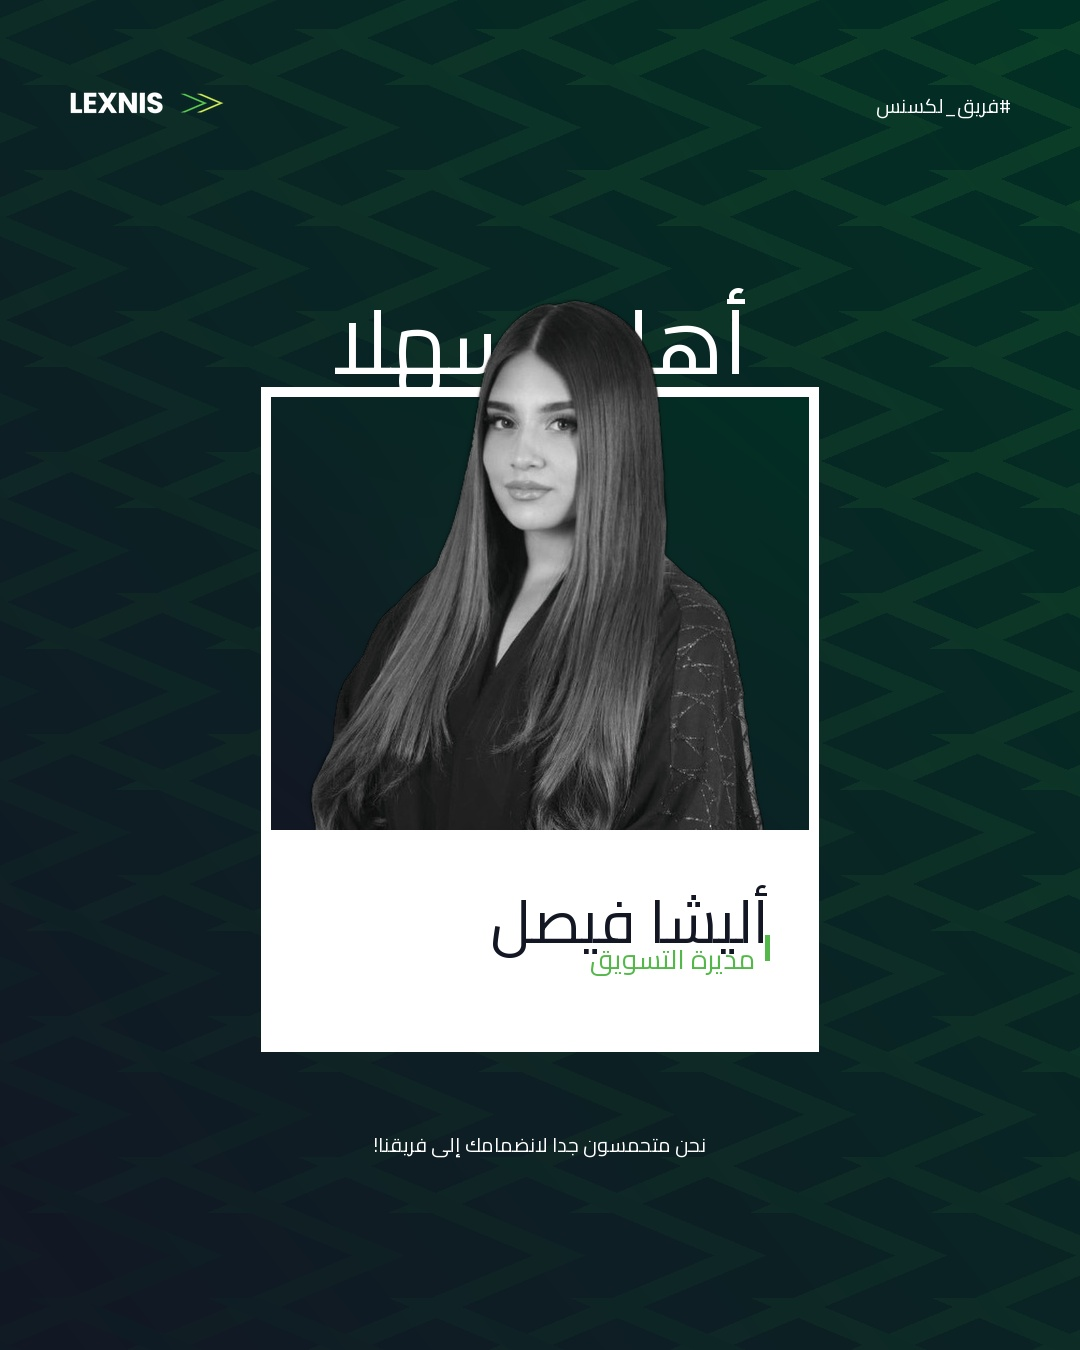
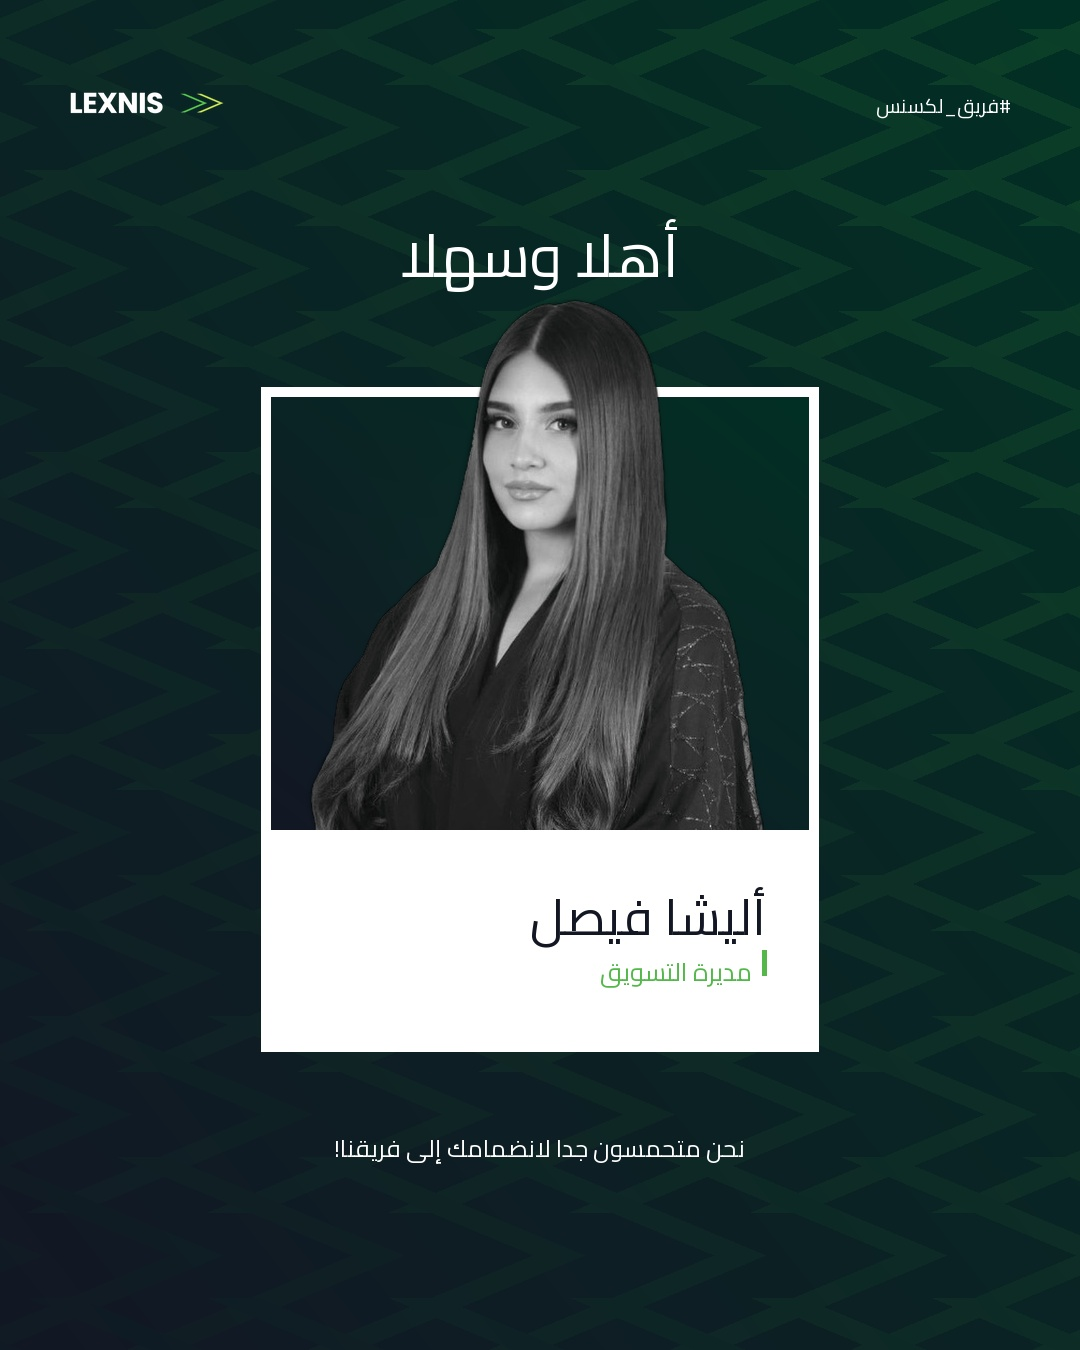
feat: upgrade template swap resolution to 1080x1350 and add Lexnis default brand DNA fallback

diff --git a/index.html b/index.html
@@ -3011,18 +3011,22 @@
           formData.append('template_url', activeTemplateAsset.url);
           formData.append('subject_url', activeSubjectAsset.url);
 
-          const pName = (personNameInput && personNameInput.value.trim()) || '';
-          const pTitle = (personTitleInput && personTitleInput.value.trim()) || '';
+          const pName = (personNameInput && personNameInput.value.trim()) || 'Alisha Faisal';
+          const pTitle = (personTitleInput && personTitleInput.value.trim()) || 'Marketing Manager';
           const bName = (brandInput && brandInput.value.trim()) || 'Lexnis Technologies';
-          const cUrl = (companyUrlInput && companyUrlInput.value.trim()) || currentCompanyUrl || '';
-          if (pName) formData.append('person_name', pName);
-          if (pTitle) formData.append('person_title', pTitle);
-          if (bName) formData.append('brand_name', bName);
-          if (cUrl) formData.append('company_url', cUrl);
+          const cUrl = (companyUrlInput && companyUrlInput.value.trim()) || currentCompanyUrl || 'https://lexnis.com';
+          formData.append('person_name', pName);
+          formData.append('person_title', pTitle);
+          formData.append('brand_name', bName);
+          formData.append('company_url', cUrl);
           if (currentBrandDna && currentBrandDna.brand_tag) {
             formData.append('brand_tag', currentBrandDna.brand_tag);
+          } else {
+            formData.append('brand_tag', '#LexnisTeam');
           }
           formData.append('recolor_gradient', 'true');
+          const lang = campaignLanguageSelect ? campaignLanguageSelect.value : 'both';
+          formData.append('language', lang);
 
           const resp = await fetch(`${backendApiBase}/api/template-swap`, {
             method: 'POST',
@@ -3035,6 +3039,13 @@
           }
 
           const data = await resp.json();
+          if (data.arabic_image_url) {
+            currentArabicImageUrl = data.arabic_image_url;
+          }
+          if (data.image_url) {
+            currentEnglishImageUrl = data.image_url;
+            currentImageUrl = data.image_url;
+          }
           if (quickSwapResultImg && data.image_url) {
             quickSwapResultImg.src = data.image_url;
             if (quickSwapDownloadLink) quickSwapDownloadLink.href = data.image_url;
@@ -3179,7 +3190,29 @@
     const dnaAestheticText = document.getElementById('dna-aesthetic-text');
 
     let currentCompanyUrl = 'https://lexnis.com';
-    let currentBrandDna = null;
+    const LEXNIS_DEFAULT_DNA = {
+      company_name: 'Lexnis Technologies',
+      brand_tag: '#LexnisTeam',
+      domain: 'lexnis.com',
+      brand_colors: {
+        primary: '#131724',
+        secondary: '#023024',
+        accent: '#53B849',
+        accent_lime: '#BCD755',
+        accent_yellow: '#FFBD23',
+        gradient_start: '#131724',
+        gradient_end: '#023024'
+      },
+      typography: {
+        primary_font: 'Poppins',
+        secondary_font: 'Poppins Medium',
+        arabic_font: 'Cairo Bold / Tajawal Medium',
+        heading_style: 'Poppins Bold 700 / Cairo Bold 700'
+      },
+      visual_aesthetic: 'Enterprise transformation minimalism with 135° Depth Gradient (#131724 -> #023024), Tech Green & Lime dual open chevrons, Core Chevron Field pattern, and Poppins/Cairo bilingual typography.',
+      locked_by_guidelines: true
+    };
+    let currentBrandDna = { ...LEXNIS_DEFAULT_DNA };
 
     function applyBrandDnaToUI(dna) {
       if (!dna) return;
@@ -3865,6 +3898,11 @@
     window.addEventListener('DOMContentLoaded', () => {
       lucide.createIcons();
       checkBackendEngine();
+
+      // Initialize Verified Lexnis Brand DNA
+      if (currentBrandDna) {
+        applyBrandDnaToUI(currentBrandDna);
+      }
 
       // Initialize Post Type Hub
       selectPostType('team_welcome');
@@ -5351,6 +5389,23 @@ Deployable directly into legacy PLC racks and air-gapped SCADA environments, Lex
               formData.append('subject_url', 'raw_subject.jpg');
             }
 
+            const pName = (personNameInput && personNameInput.value.trim()) || 'Alisha Faisal';
+            const pTitle = (personTitleInput && personTitleInput.value.trim()) || 'Marketing Manager';
+            const bName = (brandInput && brandInput.value.trim()) || 'Lexnis Technologies';
+            const cUrl = (companyUrlInput && companyUrlInput.value.trim()) || currentCompanyUrl || 'https://lexnis.com';
+            formData.append('person_name', pName);
+            formData.append('person_title', pTitle);
+            formData.append('brand_name', bName);
+            formData.append('company_url', cUrl);
+            if (currentBrandDna && currentBrandDna.brand_tag) {
+              formData.append('brand_tag', currentBrandDna.brand_tag);
+            } else {
+              formData.append('brand_tag', '#LexnisTeam');
+            }
+            formData.append('recolor_gradient', 'true');
+            const lang = campaignLanguageSelect ? campaignLanguageSelect.value : 'both';
+            formData.append('language', lang);
+
             const response = await fetch('/api/template-swap', {
               method: 'POST',
               body: formData,
@@ -5363,6 +5418,13 @@ Deployable directly into legacy PLC racks and air-gapped SCADA environments, Lex
 
             const data = await response.json();
             lastSwapImageUrl = data.image_url;
+            if (data.arabic_image_url) {
+              currentArabicImageUrl = data.arabic_image_url;
+            }
+            if (data.image_url) {
+              currentEnglishImageUrl = data.image_url;
+              currentImageUrl = data.image_url;
+            }
 
             if (swapResultContainer && swapResultImg) {
               swapResultImg.src = data.image_url;

diff --git a/visual_engine.py b/visual_engine.py
@@ -475,7 +475,7 @@ def sanitize_brand_tag(raw_tag: str, brand_name: str = "Lexnis") -> str:
     return tag
 
 
-def render_lexnis_logo(height: int = 40, is_dark_bg: bool = True) -> Image.Image:
+def render_lexnis_logo(height: int = 42, is_dark_bg: bool = True) -> Image.Image:
     """
     Renders official Lexnis Technologies vector wordmark and dual open chevrons
     conforming strictly to Section 01 of the Brand Identity Expansion (2026):
@@ -484,7 +484,7 @@ def render_lexnis_logo(height: int = 40, is_dark_bg: bool = True) -> Image.Image
     - Chevron 1: Tech Green #53B849 (Stable technology foundation)
     - Chevron 2: Lime Green #BCD755 (Accelerating transformation)
     - Clear-space = Height of 'L'
-    - Total width >= 150px at standard display height.
+    - Total width >= 165px at standard display height.
     - Supersampled 4x with Lanczos downscale for 100% anti-aliased crisp edges.
     """
     from PIL import Image, ImageDraw, ImageFont
@@ -865,14 +865,15 @@ def composite_template_swap(
 
         if is_ar:
             f_hl_path = FONTS_DIR / "Cairo-Bold.ttf"
-            font_hl_size = int(68 * sy)
+            font_hl_size = int(60 * (H / 1350.0))
             font_hl = ImageFont.truetype(str(f_hl_path), font_hl_size) if f_hl_path.exists() else ImageFont.load_default()
-            hl_raw = headline_text or "أهلاً وسهلاً"
+            hl_raw = headline_text or "مرحباً بك في فريقنا"
             hl_str = prepare_bidi_text(hl_raw)
             bbox_hl = draw_hl.textbbox((0, 0), hl_str, font=font_hl)
             hl_w = bbox_hl[2] - bbox_hl[0]
             hl_cap_h = bbox_hl[3] - bbox_hl[1]
-            hl_y = fy - hl_cap_h - int(16 * sy)
+            hl_bottom_y = fy - int(88 * sy)
+            hl_y = hl_bottom_y - hl_cap_h
             draw_hl.text(((W - hl_w) // 2, hl_y), hl_str, font=font_hl, fill=(255, 255, 255))
         else:
             f_hl_path = FONTS_DIR / "Poppins-Bold.ttf"
@@ -952,21 +953,23 @@ def composite_template_swap(
             r_name = prepare_bidi_text(display_name)
             r_role = prepare_bidi_text(display_role)
 
-            font_name_size = int(46 * sy)
-            font_role_size = int(21 * sy)
+            font_name_size = int(50 * (H / 1350.0))
+            font_role_size = int(25 * (H / 1350.0))
             f_name = ImageFont.truetype(str(FONTS_DIR / "Cairo-Bold.ttf"), font_name_size)
             f_role = ImageFont.truetype(str(FONTS_DIR / "Cairo-SemiBold.ttf"), font_role_size)
 
-            margin_r = int(38 * sx)
-            y_l1 = int(26 * sy)
+            margin_r = int(40 * sx)
+            y_name = int(30 * sy)
             bbox_n = draw_np.textbbox((0, 0), r_name, font=f_name)
             nw_px = bbox_n[2] - bbox_n[0]
-            draw_np.text((nw - margin_r - nw_px, y_l1), r_name, font=f_name, fill=dark_navy)
+            nh_px = bbox_n[3] - bbox_n[1]
+            draw_np.text((nw - margin_r - nw_px, y_name), r_name, font=f_name, fill=dark_navy)
 
-            y_role = y_l1 + int(font_name_size * 1.15)
+            y_role = y_name + nh_px + int(14 * sy)
             bbox_r = draw_np.textbbox((0, 0), r_role, font=f_role)
             rw_px = bbox_r[2] - bbox_r[0]
-            bar_h = int(font_role_size * 0.95)
+            rh_px = bbox_r[3] - bbox_r[1]
+            bar_h = max(int(font_role_size * 0.95), rh_px)
             bar_x = nw - margin_r
             draw_np.rectangle([bar_x - 4, y_role + 2, bar_x, y_role + 2 + bar_h], fill=tech_green)
             draw_np.text((bar_x - 14 - rw_px, y_role), r_role, font=f_role, fill=tech_green)
@@ -1027,8 +1030,8 @@ def composite_template_swap(
             draw_top.text((W - lx - tag_w, ly + int(8 * sy)), final_tag, font=f_tag, fill=(255, 255, 255))
 
         # 8. Layer 6: Clean Single Footer Caption (ZERO duplication / ghost lines)
-        f_foot = ImageFont.truetype(str(FONTS_DIR / ("Cairo-Regular.ttf" if is_ar else "Poppins-Regular.ttf")), int(20 * (H / 1350.0)))
-        foot_str = footer_text or ("نحن متحمسون جداً لانضمامك إلى فريقنا!" if is_ar else "We are so excited to have you on our team!")
+        f_foot = ImageFont.truetype(str(FONTS_DIR / ("Cairo-SemiBold.ttf" if is_ar else "Poppins-Regular.ttf")), int((24 if is_ar else 20) * (H / 1350.0)))
+        foot_str = footer_text or ("نحن سعداء جداً بانضمامك إلى فريقنا!" if is_ar else "We are so excited to have you on our team!")
         display_foot = prepare_bidi_text(foot_str) if is_ar else foot_str
         bbox_foot = draw_top.textbbox((0, 0), display_foot, font=f_foot)
         foot_w = bbox_foot[2] - bbox_foot[0]
@@ -1543,9 +1546,9 @@ def render_lexnis_executive_artboard(
     white = (255, 255, 255)
     light_slate = (200, 215, 230)
 
-    # Top Brand Header
-    draw.text((64, 60), "LEXNIS", font=font_logo, fill=white)
-    draw.text((188, 60), "»", font=font_logo, fill=tech_green)
+    # Top Brand Header - Official Poppins Bold + Dual Right-Facing Geometric Chevrons
+    logo_img = render_lexnis_logo(height=36, is_dark_bg=True)
+    img.paste(logo_img, (64, 52), logo_img)
     draw.text((64, 100), "TECHNOLOGIES BAHRAIN · BRAND SYSTEM", font=font_tag, fill=lime_green)
     draw.text((W - 270, 60), "EXECUTIVE LEADERSHIP", font=font_tag, fill=lime_green)
 
@@ -1588,12 +1591,16 @@ def classify_template_and_subject(image_paths):
         if im is None:
             continue
         # Check blue background ratio: B > 180, R < 140
-        blue_ratio = float(np.mean((im[:, :, 0] > 180) & (im[:, :, 2] < 140)))
+        stem_lower = path_obj.stem.lower()
+        t_bias = 0.5 if any(k in stem_lower for k in ["template", "sekawan", "frame", "layout"]) else 0.0
+        s_bias = 0.5 if any(k in stem_lower for k in ["subject", "portrait", "raw", "person", "woman", "leader"]) else 0.0
+
+        blue_ratio = float(np.mean((im[:, :, 0] > 180) & (im[:, :, 2] < 140))) + t_bias
         # Check studio off-white ratio: R > 170, G > 170, B > 170, |R-G| < 25, |G-B| < 25
         white_ratio = float(np.mean(
             (im[:, :, 0] > 170) & (im[:, :, 1] > 170) & (im[:, :, 2] > 170) &
             (np.abs(im[:, :, 0].astype(int) - im[:, :, 2].astype(int)) < 25)
-        ))
+        )) + s_bias
         img_data.append({'path': path_obj, 'blue': blue_ratio, 'white': white_ratio})
 
     if len(img_data) < 2:

diff --git a/server.py b/server.py
@@ -718,16 +718,22 @@ async def template_swap_endpoint(
         if not t_bytes or not s_bytes:
             raise HTTPException(status_code=400, detail="Both template and subject images are required.")
 
+        brand_name = brand_name or "Lexnis Technologies"
+        person_name = person_name or "Alisha Faisal"
+        person_title = person_title or "Marketing Manager"
+        if "lexnis" in brand_name.lower() or (company_url and "lexnis" in company_url.lower()):
+            recolor_gradient = True
+
         brand_colors = None
-        final_tag = sanitize_brand_tag(brand_tag, brand_name or "Lexnis Technologies")
-        if company_url or (brand_name and "lexnis" in brand_name.lower()):
+        final_tag = sanitize_brand_tag(brand_tag, brand_name)
+        if company_url or "lexnis" in brand_name.lower():
             try:
                 studio = LexnisCampaignStudio()
                 dna = studio.analyze_company_website(company_url or "https://lexnis.com", brand=brand_name)
                 if dna:
                     brand_colors = dna.get("brand_colors")
                     if not brand_tag:
-                        final_tag = sanitize_brand_tag(dna.get("brand_tag"), brand_name or "Lexnis Technologies")
+                        final_tag = sanitize_brand_tag(dna.get("brand_tag"), brand_name)
             except Exception:
                 pass
 
@@ -757,7 +763,7 @@ async def template_swap_endpoint(
 
         arabic_url = None
         if language in ("ar", "both"):
-            ar_tag = brand_tag if (brand_tag and re.search(r"[\u0600-\u06FF]", brand_tag)) else ("#فريق_لكسنس" if "lexnis" in (brand_name or "").lower() else f"#فريق_{re.sub(r'[^a-zA-Z0-9]', '', brand_name or 'Lexnis')}")
+            ar_tag = brand_tag if (brand_tag and re.search(r"[\u0600-\u06FF]", brand_tag)) else ("#فريق_لكسنس" if "lexnis" in brand_name.lower() else f"#فريق_{re.sub(r'[^a-zA-Z0-9]', '', brand_name)}")
             ar_pil = composite_template_swap(
                 t_bytes,
                 s_bytes,
@@ -770,8 +776,8 @@ async def template_swap_endpoint(
                 recolor_gradient=recolor_gradient,
                 blueprint=bp_param,
                 language="ar",
-                headline_text=headline_text if (language == "ar" and headline_text) else "أهلاً وسهلاً",
-                footer_text=footer_text if (language == "ar" and footer_text) else "نحن متحمسون جداً لانضمامك إلى فريقنا!"
+                headline_text=headline_text if (language == "ar" and headline_text) else "مرحباً بك في فريقنا",
+                footer_text=footer_text if (language == "ar" and footer_text) else "نحن سعداء جداً بانضمامك إلى فريقنا!"
             )
             ar_filename = f"template_swap_{token}_ar.jpg"
             ar_path = RENDERS_DIR / ar_filename
@@ -783,7 +789,7 @@ async def template_swap_endpoint(
             "image_url": render_url(str(out_path)) if language != "ar" else arabic_url,
             "arabic_image_url": arabic_url,
             "message": "Template swap with 2.5D pop-out layering successfully generated",
-            "dimensions": {"width": 808, "height": 1024},
+            "dimensions": {"width": 1080, "height": 1350},
             "person_name": person_name,
             "person_title": person_title,
             "language": language

diff --git a/campaign_generator.py b/campaign_generator.py
@@ -2883,7 +2883,7 @@ class LexnisCampaignStudio:
             candidate_images.append(Path(uploaded_image_path))
 
         prompt_lower = (effective_prompt + " " + (guidelines or "")).lower()
-        needs_swap = any(k in prompt_lower for k in ["girl", "blue image", "white background", "template", "portrait", "sekawan", "swap", "replace", "face", "uploaded"])
+        needs_swap = (post_type == "team_welcome") or any(k in prompt_lower for k in ["girl", "blue image", "white background", "template", "portrait", "sekawan", "swap", "replace", "face", "uploaded", "welcome"])
 
         # Only search uploads cache if user provided an image or explicitly requested a template swap
         if (candidate_images or needs_swap) and len(candidate_images) < 2:
@@ -2936,7 +2936,7 @@ class LexnisCampaignStudio:
 
         if t_file and s_file and (use_uploaded_image is not False):
             step("Executing autonomous 2.5D pop-out template subject replacement...")
-            swap_key = hashlib.sha1(f"swap|{t_file.name}|{s_file.name}|{person_name}|{person_title}|{brand}|{brand_tag}|{company_url}|recolor_{recolor_to_brand}".encode()).hexdigest()[:16]
+            swap_key = hashlib.sha1(f"swap_v3_1080x1350|{t_file.name}|{s_file.name}|{person_name}|{person_title}|{brand}|{brand_tag}|{company_url}|recolor_{recolor_to_brand}".encode()).hexdigest()[:16]
             clean_path = RENDERS_DIR / f"{swap_key}_clean.jpg"
             post_path = RENDERS_DIR / f"{swap_key}_post.jpg"
             post_ar_path = RENDERS_DIR / f"{swap_key}_post_ar.jpg"
@@ -2959,8 +2959,8 @@ class LexnisCampaignStudio:
             arabic_pack = self.transcreate_to_arabic(en_pack, brand=brand, visual_analysis="Template subject replacement", guidelines=distilled_gl)
 
             # Arabic localized copy & design tokens
-            ar_hl = arabic_pack.get("visual_headline") or arabic_pack.get("image_headline") or "أهلاً وسهلاً"
-            ar_tl = arabic_pack.get("visual_tagline") or "نحن متحمسون جداً لانضمامك إلى فريقنا!"
+            ar_hl = arabic_pack.get("visual_headline") or arabic_pack.get("image_headline") or "مرحباً بك في فريقنا"
+            ar_tl = arabic_pack.get("visual_tagline") or "نحن سعداء جداً بانضمامك إلى فريقنا!"
             ar_tag = brand_tag if (brand_tag and re.search(r"[\u0600-\u06FF]", brand_tag)) else ("#فريق_لكسنس" if "lexnis" in brand.lower() else f"#فريق_{re.sub(r'[^a-zA-Z0-9]', '', brand)}")
 
             if not post_ar_path.exists():
@@ -3171,7 +3171,7 @@ class LexnisCampaignStudio:
         self,
         template_image: Any,
         subject_image: Any,
-        target_size: tuple = (808, 1024),
+        target_size: tuple = (1080, 1350),
         out_dir: Path = RENDERS_DIR,
     ) -> Path:
         """Autonomous template subject-replacement and 2.5D pop-out compositing."""
